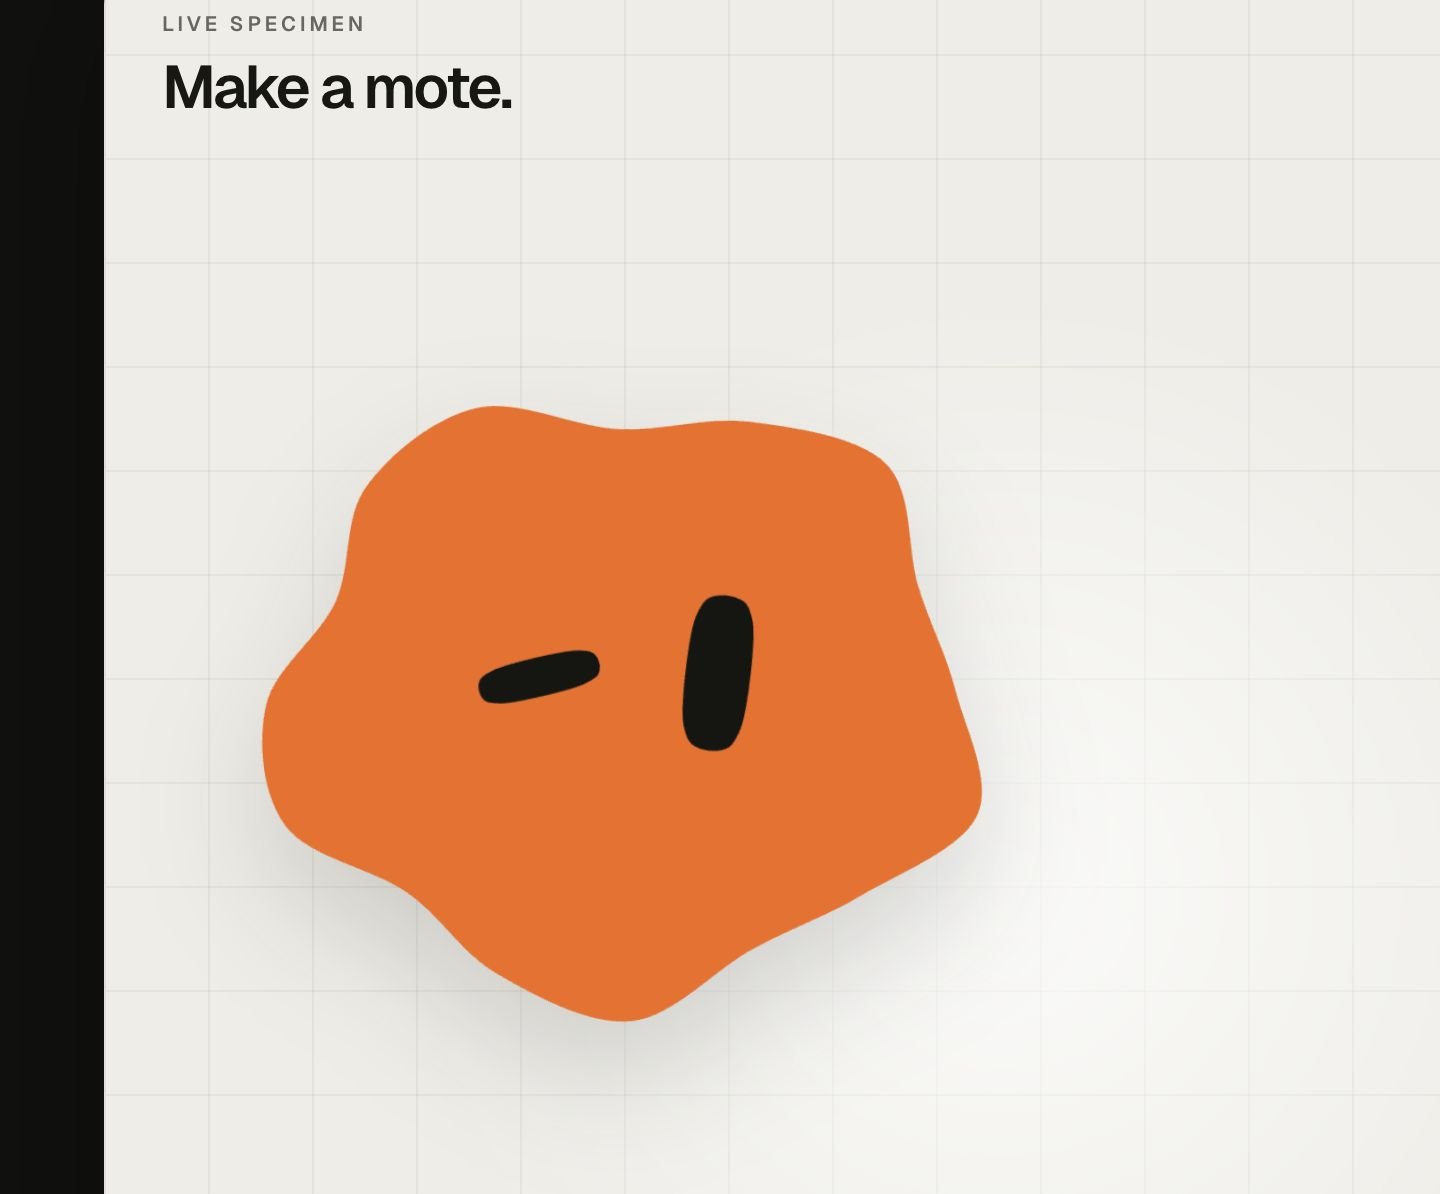
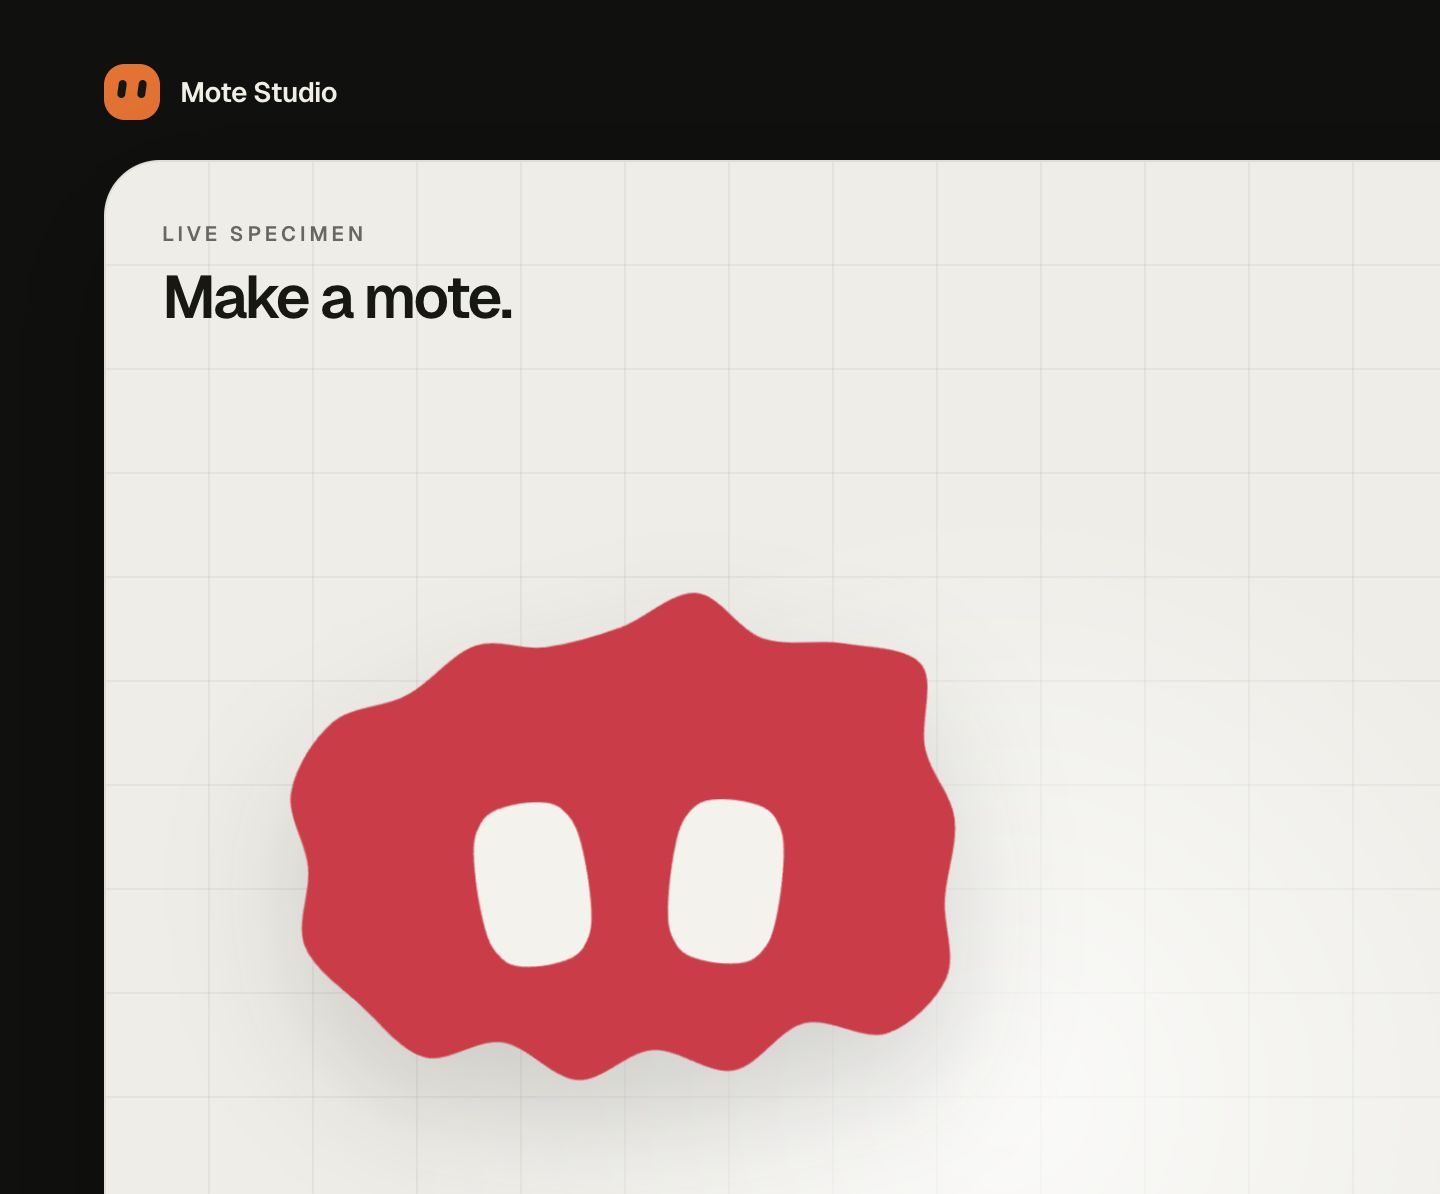
Refine reference-inspired silhouettes

diff --git a/packages/core/src/shapes.ts b/packages/core/src/shapes.ts
@@ -34,7 +34,7 @@ export type ShapeDefinition = {
 }
 
 const CENTER = 160
-const POINT_COUNT = 16
+const POINT_COUNT = 24
 
 const sample = (factory: (angle: number, index: number) => Point): Point[] =>
   Array.from({ length: POINT_COUNT }, (_, index) => {
@@ -76,6 +76,57 @@ const radial = (
 const fromCoordinates = (
   coordinates: ReadonlyArray<readonly [number, number]>,
 ): Point[] => coordinates.map(([x, y]) => ({ x, y }))
+
+/**
+ * Redistributes hand-drawn rings to the shared body topology while retaining
+ * the silhouette's corners and lobes. This lets expressive reference shapes
+ * morph into the procedural presets without crossfading.
+ */
+const resampleClosedRing = (
+  points: Point[],
+  targetCount = POINT_COUNT,
+): Point[] => {
+  if (points.length < 3) {
+    throw new Error('A closed curve requires at least three points')
+  }
+
+  const segments = points.map((point, index) => {
+    const next = points[(index + 1) % points.length]
+    if (!next) throw new Error('The point ring is incomplete')
+    return Math.hypot(next.x - point.x, next.y - point.y)
+  })
+  const perimeter = segments.reduce((total, length) => total + length, 0)
+
+  return Array.from({ length: targetCount }, (_, sampleIndex) => {
+    const targetDistance = (sampleIndex / targetCount) * perimeter
+    let coveredDistance = 0
+
+    for (let index = 0; index < points.length; index += 1) {
+      const point = points[index]
+      const next = points[(index + 1) % points.length]
+      const segmentLength = segments[index]
+
+      if (!point || !next || segmentLength === undefined) {
+        throw new Error('The point ring is incomplete')
+      }
+
+      if (coveredDistance + segmentLength >= targetDistance) {
+        const progress =
+          segmentLength === 0
+            ? 0
+            : (targetDistance - coveredDistance) / segmentLength
+        return {
+          x: point.x + (next.x - point.x) * progress,
+          y: point.y + (next.y - point.y) * progress,
+        }
+      }
+
+      coveredDistance += segmentLength
+    }
+
+    return points[0] as Point
+  })
+}
 
 const round = (value: number) => Number(value.toFixed(2))
 
@@ -192,22 +243,26 @@ const pointSets: Record<ShapeId, Point[]> = {
     [137, 65],
   ]),
   wedge: fromCoordinates([
-    [160, 49],
-    [177, 71],
-    [197, 103],
-    [219, 142],
-    [241, 184],
-    [247, 216],
-    [229, 237],
-    [194, 244],
+    [160, 48],
+    [173, 64],
+    [188, 88],
+    [205, 116],
+    [222, 146],
+    [239, 178],
+    [249, 205],
+    [245, 226],
+    [228, 239],
+    [199, 244],
     [160, 245],
-    [126, 244],
-    [91, 237],
-    [73, 216],
-    [79, 184],
-    [101, 142],
-    [123, 103],
-    [143, 71],
+    [121, 244],
+    [92, 239],
+    [75, 226],
+    [71, 205],
+    [81, 178],
+    [98, 146],
+    [115, 116],
+    [132, 88],
+    [147, 64],
   ]),
   shield: fromCoordinates([
     [160, 45],
@@ -246,24 +301,69 @@ const pointSets: Record<ShapeId, Point[]> = {
     [87, 91],
   ]),
   arch: superellipse(78, 121, 5.4),
-  cloud: radial(106, 91, (angle) => 1 + 0.1 * Math.sin(angle * 5 - 0.4)),
+  cloud: fromCoordinates([
+    [160, 76],
+    [176, 65],
+    [194, 67],
+    [205, 82],
+    [220, 85],
+    [237, 79],
+    [252, 89],
+    [256, 107],
+    [249, 122],
+    [262, 137],
+    [263, 154],
+    [252, 168],
+    [258, 185],
+    [247, 200],
+    [228, 203],
+    [215, 197],
+    [199, 211],
+    [181, 213],
+    [166, 204],
+    [150, 215],
+    [131, 211],
+    [119, 199],
+    [100, 207],
+    [82, 199],
+    [77, 183],
+    [63, 174],
+    [57, 157],
+    [67, 143],
+    [58, 128],
+    [62, 110],
+    [77, 100],
+    [91, 101],
+    [101, 86],
+    [118, 80],
+    [132, 88],
+    [143, 74],
+  ]),
   teardrop: fromCoordinates([
-    [160, 44],
-    [178, 68],
-    [198, 97],
-    [218, 128],
-    [228, 160],
-    [224, 191],
-    [206, 216],
-    [184, 231],
-    [160, 236],
-    [136, 231],
-    [114, 216],
-    [96, 191],
-    [92, 160],
-    [102, 128],
-    [122, 97],
-    [142, 68],
+    [160, 38],
+    [170, 52],
+    [184, 73],
+    [200, 96],
+    [215, 120],
+    [228, 146],
+    [236, 171],
+    [237, 193],
+    [229, 213],
+    [214, 229],
+    [195, 241],
+    [174, 247],
+    [151, 248],
+    [129, 244],
+    [109, 234],
+    [93, 219],
+    [84, 200],
+    [82, 180],
+    [87, 157],
+    [97, 134],
+    [110, 112],
+    [124, 88],
+    [139, 62],
+    [152, 43],
   ]),
   leaf: fromCoordinates([
     [223, 53],
@@ -304,15 +404,18 @@ const metadata: Record<
   shield: { label: 'Shield', description: 'Protective and confident' },
   dome: { label: 'Dome', description: 'Low and relaxed' },
   arch: { label: 'Arch', description: 'Tall and focused' },
-  cloud: { label: 'Cloud', description: 'Playful and elastic' },
-  teardrop: { label: 'Teardrop', description: 'Warm and expressive' },
+  cloud: {
+    label: 'Braincloud',
+    description: 'Lobed like a little thought cloud',
+  },
+  teardrop: { label: 'Teardrop', description: 'Pointed, warm and expressive' },
   leaf: { label: 'Leaf', description: 'Directional and lively' },
 }
 
 export const SHAPES: ShapeDefinition[] = SHAPE_IDS.map((id) => ({
   id,
   ...metadata[id],
-  path: closedCurvePath(pointSets[id]),
+  path: closedCurvePath(resampleClosedRing(pointSets[id])),
 }))
 
 export const shapeById = (id: ShapeId): ShapeDefinition => {

diff --git a/packages/core/src/core.test.ts b/packages/core/src/core.test.ts
@@ -20,7 +20,7 @@ describe('Mote core', () => {
     for (const shape of SHAPES) {
       expect(shape.path).toMatch(/^M /)
       expect(shape.path).toMatch(/ Z$/)
-      expect(shape.path.match(/C /g)).toHaveLength(16)
+      expect(shape.path.match(/C /g)).toHaveLength(24)
       expect(shape.path).not.toContain('NaN')
     }
   })

diff --git a/README.md b/README.md
@@ -113,7 +113,7 @@ docs/screenshots README captures generated from the running app
 
 ## How morphing works
 
-Every silhouette and eye resolves to a closed ring of 16 points in `packages/core`. The path generator converts each ring to the same number and order of cubic Bézier commands. Because the SVG command topology stays compatible, Motion can interpolate each `d` attribute directly instead of replacing nodes or crossfading between unrelated shapes.
+Every silhouette resolves to a closed ring of 24 points and every eye to a 16-point ring in `packages/core`. The path generator converts each family to the same number and order of cubic Bézier commands. Because each SVG command topology stays compatible, Motion can interpolate every `d` attribute directly instead of replacing nodes or crossfading between unrelated shapes. Hand-drawn presets such as Braincloud and Teardrop are redistributed along their perimeter before rendering, preserving their lobes and pointed profiles while keeping morphs safe.
 
 Ambient movement is isolated from body morphing, expression morphing, gaze, blinking, and orbit effects. User-selected eye changes use an interruptible spring; automatic expression changes run at a restrained cadence and stop under `prefers-reduced-motion`. Each layer animates only transforms, opacity, color, or the SVG path itself; layout properties are never animated.
 
